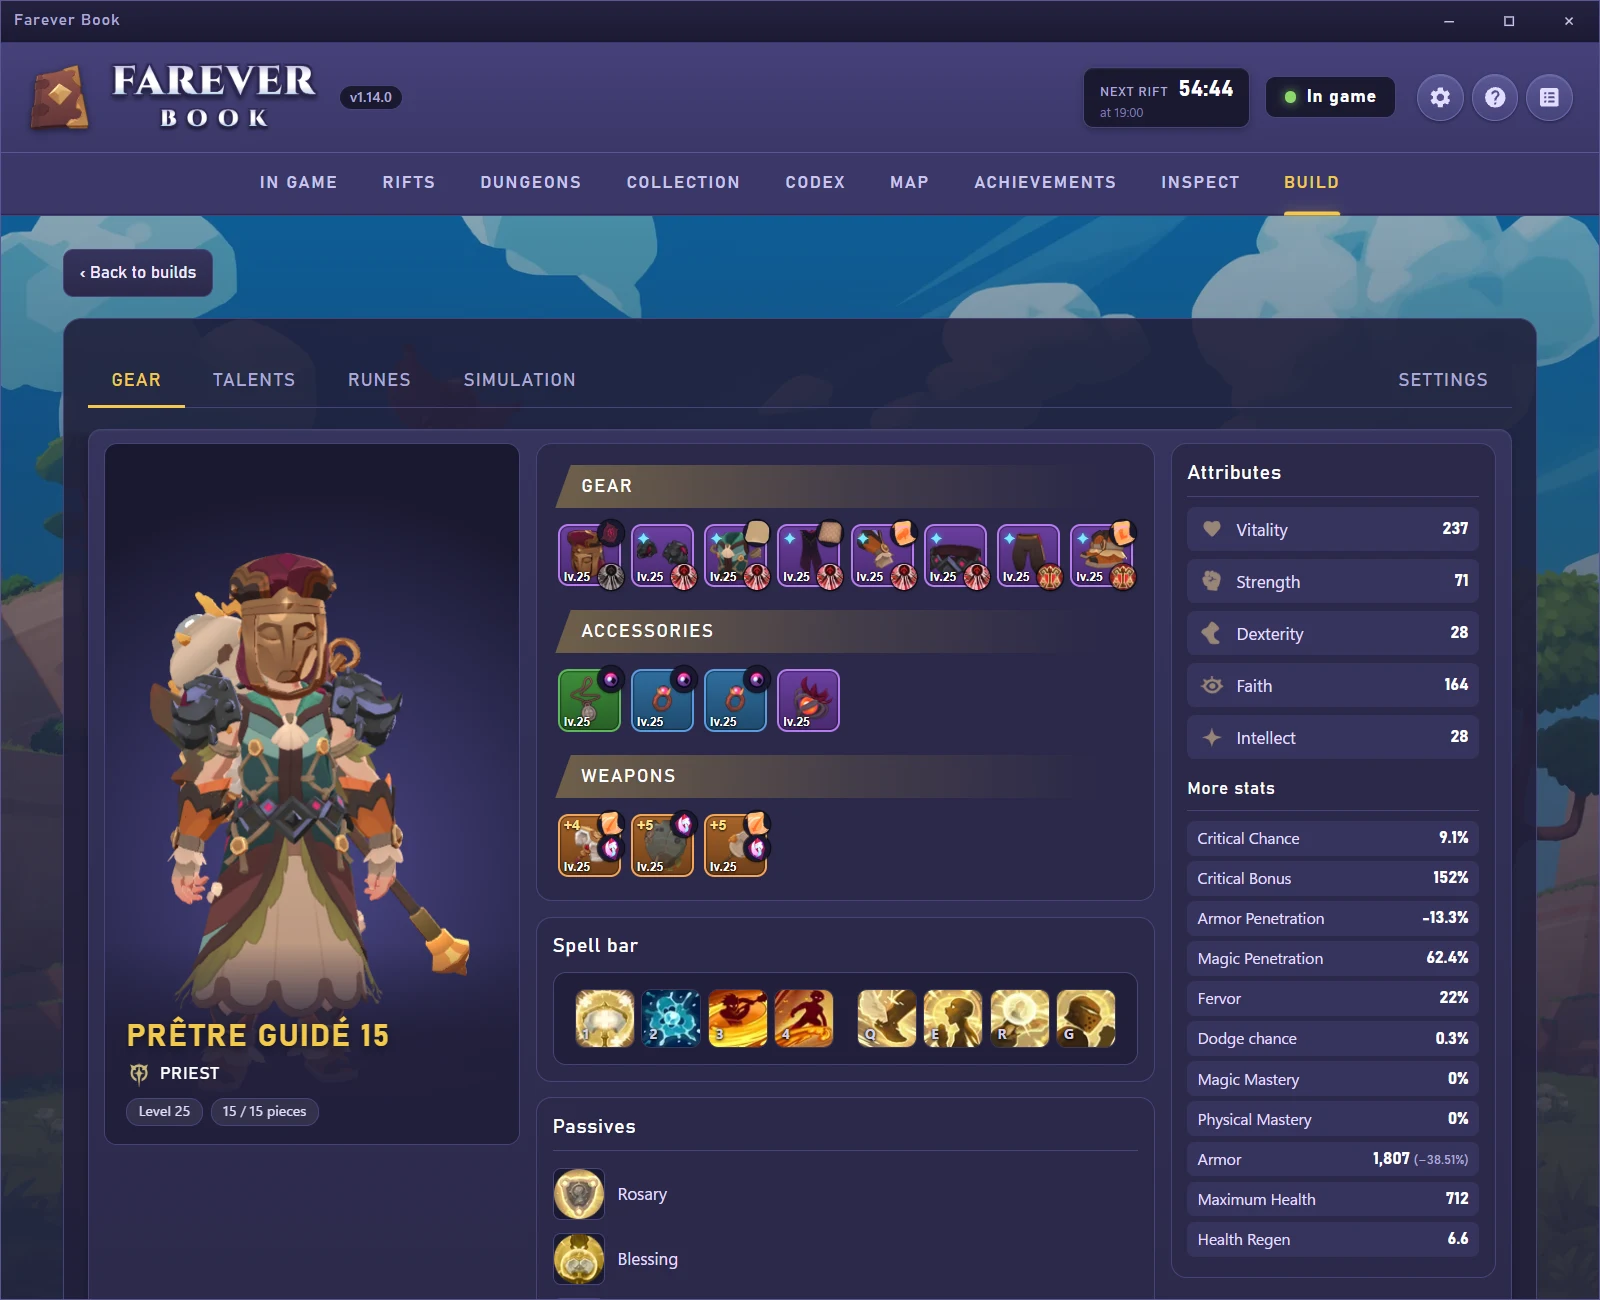
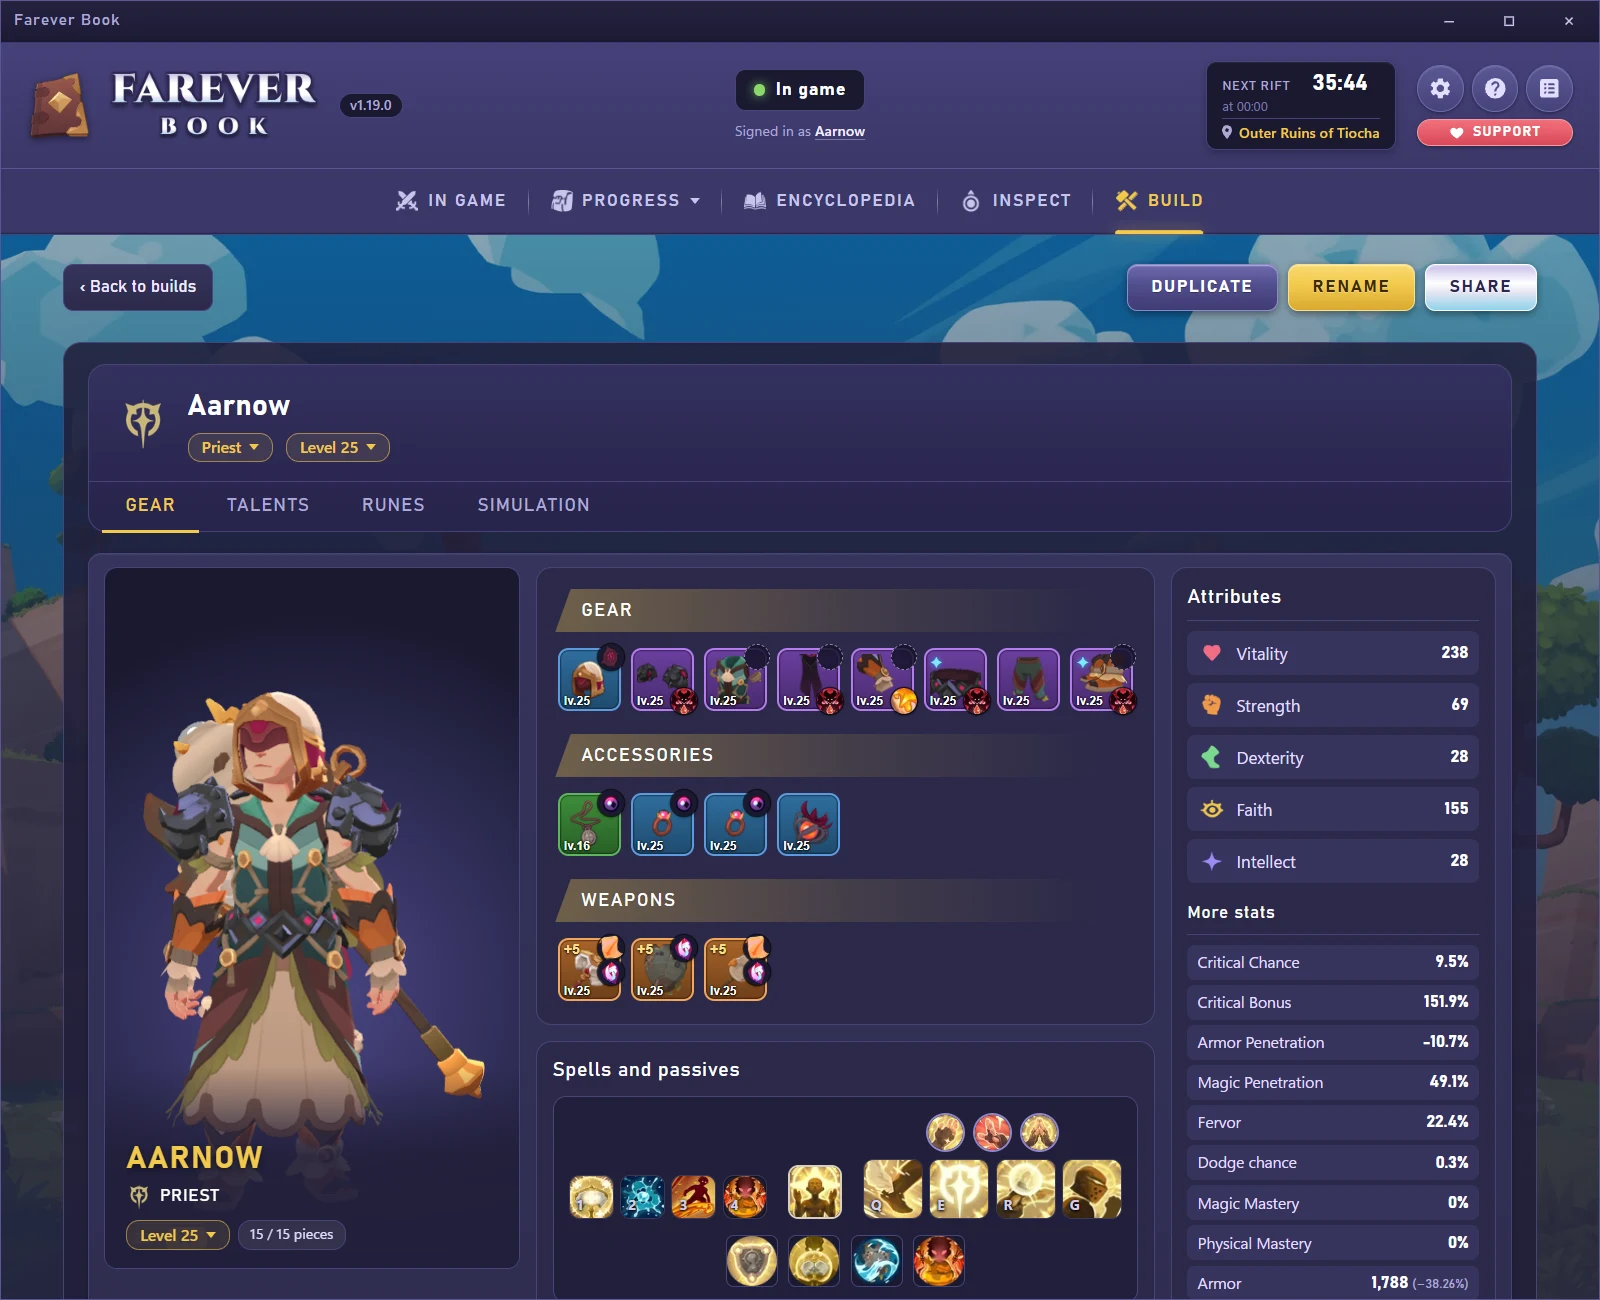
Version 1.19.0 : README (Progression, Encyclopédie, Build détaillé), captures du README refaites (Encyclopédie en tête, nouveau Build), images de la 1.19.0 pour sa release (accueil de l'Encyclopédie, fiche d'un monstre, page d'un donjon, sorts et passifs, menu Progression)

diff --git a/meter/common.py b/meter/common.py
@@ -473,7 +473,7 @@ def _pretty_id(sid: str) -> str:
 # ---------------------------------------------------------------------------
 # Bump on every release and tag the repo with the same string: the update
 # check compares it with the latest release.
-VERSION = "1.18.0"
+VERSION = "1.19.0"
 
 
 # ---------------------------------------------------------------------------

diff --git a/README.fr.md b/README.fr.md
@@ -12,16 +12,19 @@ ou 11).
 
 ## Aperçu
 
-![La collection : montures, planeurs, compagnons, équipements et objets, avec leur modèle 3D](docs/screenshots/collection.webp)
+![L'Encyclopédie : une monture en 3D, sa famille et comment l'obtenir](docs/screenshots/encyclopedia.webp)
 
 <table>
   <tr>
-    <td width="50%"><img src="docs/screenshots/build.webp" alt="Un build : le héros en 3D, l'équipement, la barre de sorts et les statistiques"></td>
-    <td width="50%"><img src="docs/screenshots/codex.webp" alt="Le Codex : un monstre en 3D et où le trouver sur la carte"></td>
+    <td width="50%"><img src="docs/screenshots/build.webp" alt="Un build : le héros en 3D, l'équipement, les sorts et passifs, les statistiques"></td>
+    <td width="50%"><img src="docs/screenshots/collection.webp" alt="La collection : montures, planeurs, compagnons, équipements et objets, avec leur modèle 3D"></td>
   </tr>
   <tr>
+    <td><img src="docs/screenshots/codex.webp" alt="Le Codex : un monstre en 3D et où le trouver sur la carte"></td>
     <td><img src="docs/screenshots/dungeons.webp" alt="Les donjons : records, victoires et butin par difficulté"></td>
-    <td><img src="docs/screenshots/boss.webp" alt="La fiche d'un boss : PV selon le groupe, défenses et compétences"></td>
+  </tr>
+  <tr>
+    <td colspan="2"><img src="docs/screenshots/boss.webp" alt="La fiche d'un boss : PV selon le groupe, défenses et compétences"></td>
   </tr>
 </table>
 
@@ -29,14 +32,17 @@ ou 11).
 
 * **En jeu** : le compteur de dégâts et de soins, ton groupe, tes chances de
   butin.
-* **Failles et donjons** : le butin, les rapports de chaque faille et de chaque
-  run, tes records.
-* **Collection, Codex, Succès, Carte** : ta progression, ce qu'il te manque et
-  comment l'obtenir.
+* **Progression** (Collection, Codex, Carte, Succès, Donjons, Failles) : ta
+  progression, ce qu'il te manque et comment l'obtenir, le butin et les
+  rapports de chaque faille et de chaque run, tes records.
+* **Encyclopédie** : les objets, monstres, familiers, montures, planeurs, PNJ
+  et métiers du jeu, avec leur modèle 3D, où les trouver et comment les
+  obtenir.
 * **Inspecter** : l'équipement, les talents et les sorts des joueurs autour de
   toi.
-* **Build** : composer et comparer des builds, avec leurs statistiques et une
-  simulation des dégâts, puis les partager.
+* **Build** : composer et comparer des builds (équipement, talents, runes,
+  sorts et passifs), avec leurs statistiques et une simulation des dégâts,
+  puis les partager.
 
 ## Lecture seule
 

diff --git a/README.md b/README.md
@@ -11,29 +11,34 @@ Available in English and French, **for Windows only** (Windows 10 or 11).
 
 ## Preview
 
-![The collection: mounts, gliders, companions, gear and items, with their 3D model](docs/screenshots/collection.webp)
+![The Encyclopedia: a mount in 3D, its family and how to get it](docs/screenshots/encyclopedia.webp)
 
 <table>
   <tr>
-    <td width="50%"><img src="docs/screenshots/build.webp" alt="A build: the hero in 3D, the gear, the spell bar and the stats"></td>
-    <td width="50%"><img src="docs/screenshots/codex.webp" alt="The Codex: a monster in 3D and where to find it on the map"></td>
+    <td width="50%"><img src="docs/screenshots/build.webp" alt="A build: the hero in 3D, the gear, the spells and passives, the stats"></td>
+    <td width="50%"><img src="docs/screenshots/collection.webp" alt="The collection: mounts, gliders, companions, gear and items, with their 3D model"></td>
   </tr>
   <tr>
+    <td><img src="docs/screenshots/codex.webp" alt="The Codex: a monster in 3D and where to find it on the map"></td>
     <td><img src="docs/screenshots/dungeons.webp" alt="Dungeons: records, victories and loot per difficulty"></td>
-    <td><img src="docs/screenshots/boss.webp" alt="A boss sheet: health per party size, defenses and skills"></td>
+  </tr>
+  <tr>
+    <td colspan="2"><img src="docs/screenshots/boss.webp" alt="A boss sheet: health per party size, defenses and skills"></td>
   </tr>
 </table>
 
 ## What it offers
 
 * **In game**: the damage and healing meter, your party, your loot chances.
-* **Rifts and dungeons**: the loot, a report of every rift and every run, your
-  records.
-* **Collection, Codex, Achievements, Map**: your progress, what you are
-  missing and how to get it.
+* **Progress** (Collection, Codex, Map, Achievements, Dungeons, Rifts): your
+  progress, what you are missing and how to get it, the loot and a report of
+  every rift and every run, your records.
+* **Encyclopedia**: the game's items, monsters, companions, mounts, gliders,
+  NPCs and professions, with their 3D model, where to find them and how to
+  get them.
 * **Inspect**: the gear, talents and spells of the players around you.
-* **Build**: create and compare builds, with their stats and a damage
-  simulation, then share them.
+* **Build**: create and compare builds (gear, talents, runes, spells and
+  passives), with their stats and a damage simulation, then share them.
 
 ## Read-only
 
